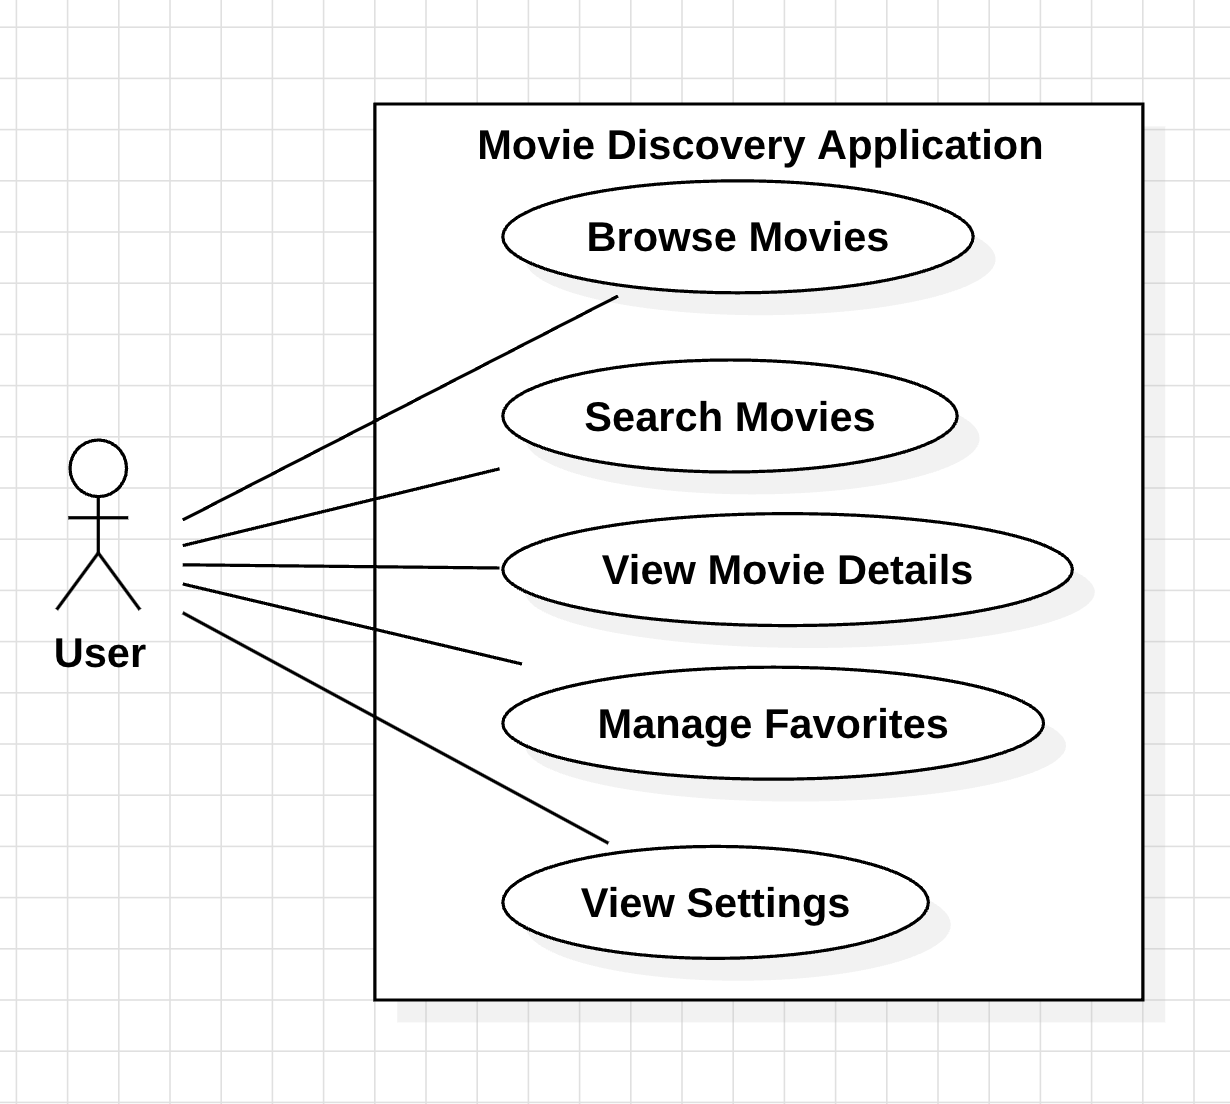
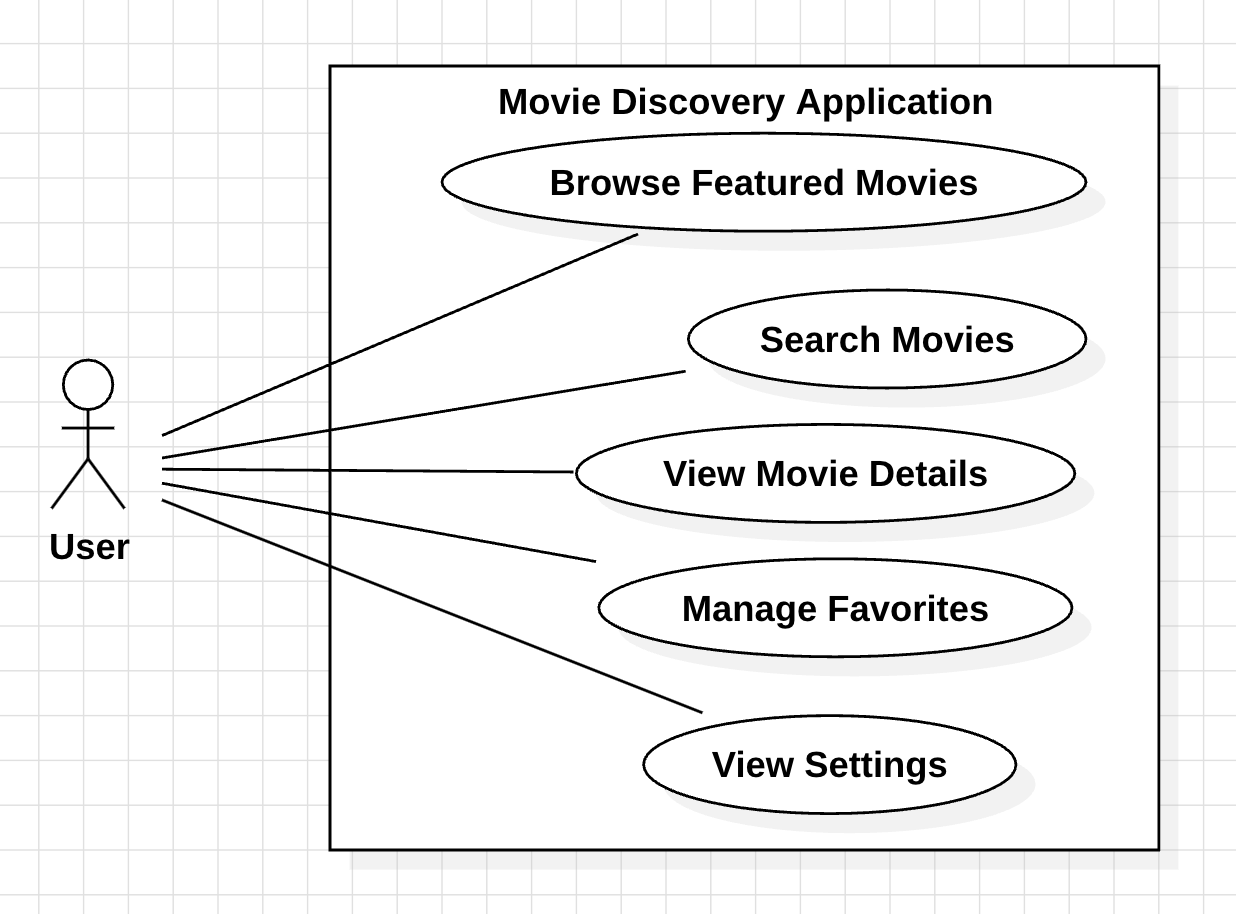
Detailed brief version and Database Design

diff --git a/docs/brief.md b/docs/brief.md
@@ -19,7 +19,11 @@ _based on standard SDLC Model_
 - Settings
 - API integration.
 
-**ATTENTION:** NO USER ACCOUNT
+**ATTENTION - OUT OF SCOPE:** 
+- User Authentication
+- User Accounts
+- Cloud Synchronization
+- Custom Backend
 
 ---
 ## Phase 2. Requirement Analysis
@@ -51,12 +55,12 @@ _based on standard SDLC Model_
 - Use Case Description:
     | Field | Description |
     | --- | --- |
-    | ID, Name | UC-01: Browse Movies |
+    | ID, Name | UC-01: Browse Featured Movies |
     | Actor | Guest User |
     | Precondition | App is launched, user can access the Home screen |
-    | Postcondition | The available movies are displayed with their posters, titles, and ratings |
-    | Main Flow | 1. User opens the Home screen.<br>2. System retrieves the movie list from the API.<br>3. System displays the available movies.<br>4. User scrolls through the movie list.<br>5. System displays additional movies as the user browses, if available. |
-    | Alternative Flow | Empty Movie List: The API returns an empty list.<br>→ The system displays a message such as "No movies available." | 
+    | Postcondition | The available featured movies are displayed with their posters, titles, and ratings. |
+    | Main Flow | 1. User opens the Home screen.<br>2. System retrieves the featured movie list from the API.<br>3. System displays the available movies.<br>4. User scrolls through the movie list. |
+    | Alternative Flow | No featured Movies available: The system displays a message "No movies available." | 
 
     | Field | Description |
     | --- | --- |
@@ -80,7 +84,7 @@ _based on standard SDLC Model_
     | --- | --- |
     | ID, Name | UC-04: Manage Favorites |
     | Actor | Guest User |
-    | Precondition | App is launched, user can access movie details or the Favorites screen. |
+    | Precondition | App is launched, user can access Movie Details or the Favorites screen. |
     | Postcondition | The Favorites list is updated and saved locally. |
     | Main Flow | 1. User selects a movie from the Home screen or search results.<br>2. System displays the Movie Details screen.<br>3. User adds the selected movie to Favorites.<br>4. System saves the movie to the Favorites list.<br>5. System displays confirmation message.<br>6. User opens the favorites screen.<br>7. System displays the saved movies. |
     | Alternative Flow | **Remove Favorite:** User removes a movie from Favorites. System updates the list<br>**Movie already in Favorites:** System prevents duplicate and displays duplicate notificatio message<br>**Empty Favorites list:** System displays "No favorite movies yet". |
@@ -125,7 +129,7 @@ Using MVVM (Model - View - ViewModel) model + Repository Pattern: [MVVM](mvv-mod
 - **Repository:** Data access management, provide an abstraction between ViewModel and data sources.
 | Data Source | Role |
 |---|---|
-| Movie API (TMDB) | GET movie list, search, details |
+| Movie API (OMDb) | GET movie list, search, details |
 | Database | Store and retrieve favorite movies |
 
 - **Data Flow:** View → ViewModel → Repository → API / Local Database
@@ -137,4 +141,32 @@ Using MVVM (Model - View - ViewModel) model + Repository Pattern: [MVVM](mvv-mod
 ### 3.3. UI/UX Design
 _na_
 
-### 3.4. API Design - Use TMDB API
+### 3.4. API Design
+#### a. API Endpoints
+- **[OMDb API](https://www.omdbapi.com):** Provides Movie Details
+- **Authentication:** API Key
+- **Response Format:** JSON
+
+| Use Case | Request | Data Source |
+|---|---|---|
+| UC-01 Browse Featured Movies | `GET ?i={imdbID}` for each movie | OMDb |
+| UC-02 Search Movies | `GET ?s={title}&type=movie` | OMDb |
+| UC-03 View Movie Details | `GET ?i={imdbID}&plot=full` | OMDb |
+| UC-04 Manage Favorites | Insert / Select / Delete | Room Database |
+| UC-05 View Settings | Read / Write Preferences | SharedPreferences |
+
+#### b. API Request & Response Design
+| Use Case | Response |
+| --- | --- |
+| UC-01 | Title, Year, Poster, imdbRating, imdbID |
+| UC-02 | Title, Year, imdbID, Type, Poster |
+| UC-03 | Title, Year, imdbID, Poster, Genre, imdbRating, Plot, Actors, Runtime, Director |
+
+### 3.5. Data Design
+| Model | Fields | Purpose |
+|---|---|---|
+| Movie | imdbID, Title, Year, Type, Poster | Browse/Search Movies |
+| MovieDetails | imdbID, Title, Year, Poster, Genre, imdbRating, Plot, Actors, Runtime, Director | View Movie Details |
+| FavoriteMovie | imdbID, Title, Year, Poster | Store Favorites locally |
+
+Detailed data types and database schema: [Data Contract](data-contract.md)

diff --git a/docs/data-contract.md b/docs/data-contract.md
@@ -1,0 +1,67 @@
+# IMDB Client - Android Movie Discovery Application
+
+## IMDB Data Contract
+
+### 1. Data Models
+- Movie
+- MovieDetails
+- FavoriteMovie
+
+### 2. Data Types & JSON Mapping
+
+| OMDb Field | Java Field | Data Type | Model |
+|---|---|---|---|
+| imdbID | imdbID | String | Movie, MovieDetails |
+| Title | title | String | Movie, MovieDetails |
+| Year | year | String | Movie, MovieDetails |
+| Poster | poster | String | Movie, MovieDetails |
+| Type | type | String | Movie |
+| Genre | genre | String | MovieDetails |
+| imdbRating | imdbRating | String | MovieDetails |
+| Plot | plot | String | MovieDetails |
+| Actors | actors | String | MovieDetails |
+| Runtime | runtime | String | MovieDetails |
+| Director | director | String | MovieDetails |
+
+`FavoriteMovie` will retrieve corresponding field from Movie/MovieDetails when user add to Favorites.
+
+API Response Structure:
+| JSON Field | Description |
+|---|---|
+| Search | Array of matching movies |
+| totalResults | Total number of matching results |
+| Response | "True" or "False" |
+| Error | Error description when the request fails |
+
+### 3. Local Databse Design
+App uses **Room Database** to store some favorite movies locally on device.
+
+Table `favorite_movies`:
+| | Data Type | Constraint |
+|---|---|---|
+| imdbID | String | PRIMARY KEY, NOT NULL |
+| title | String | NOT NULL |
+| year | String | |
+| poster | String | |
+
+Database operations:
+| Operation | Description |
+|---|---|
+| insertFavorite() | Add a movie to Favorites |
+| getAllFavorites() | Retrieve all saved favorite movies |
+| deleteFavorite() | Remove a movie from Favorites |
+| isFavorite() | Check whether a movie is already saved |
+
+### 4. Data Validation & Error Handling
+
+| Scenario | Expected Behavior |
+|---|---|
+| Missing movie information | Display "N/A" or an appropriate placeholder |
+| Missing poster | Display a default poster image |
+| No search results | Display "No movies found." |
+| API request failure | Display an error message with a Retry option |
+| Duplicate favorite movie | Prevent duplicate entries |
+| Empty Favorites list | Display "No favorite movies yet." |
+| Local database error | Display an appropriate error message |
+
+The application checks the OMDb API response status before processing movie data.
